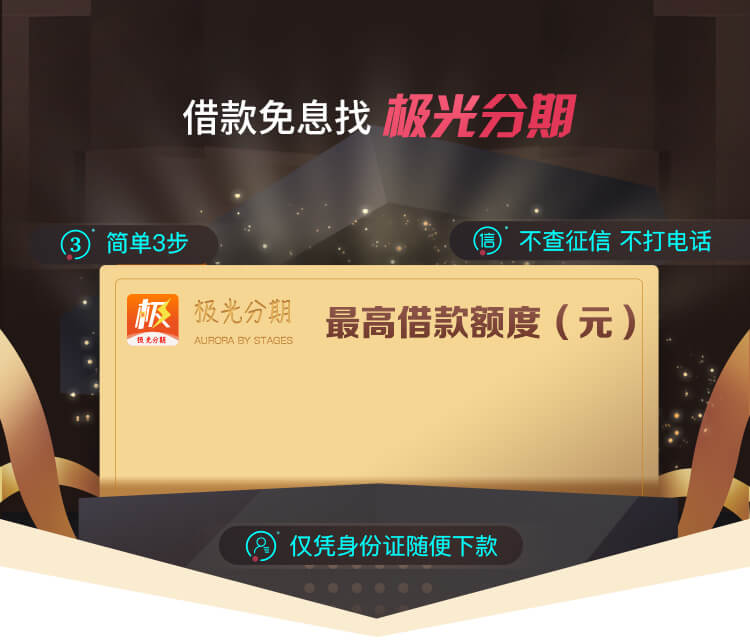
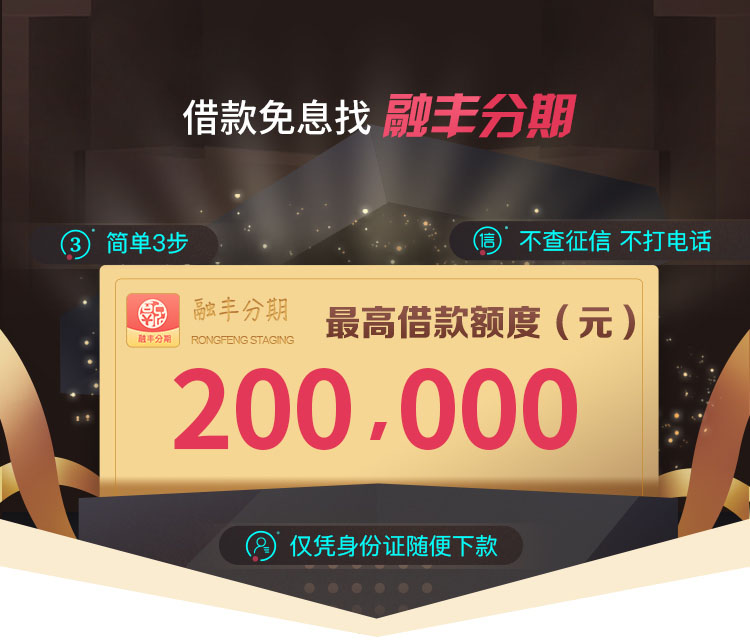
tianjia

diff --git a/src/views/registeredNew.vue b/src/views/registeredNew.vue
@@ -55,7 +55,7 @@
               >《注册协议》</a
             >
             <a class="red" :href="`${this.$Domain}/privacy.html`">
-              《极光分期隐私政策》</a
+              《融丰分期隐私政策》</a
             >
           </span>
         </div>
